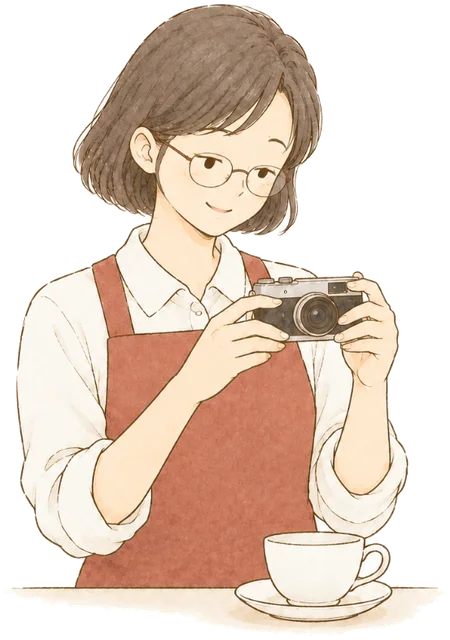
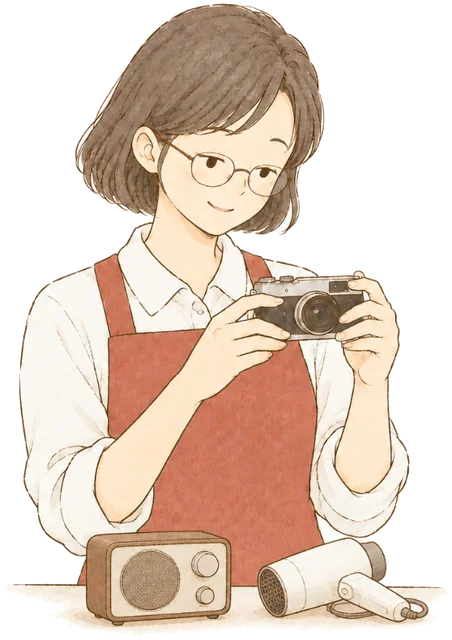
SNS の人物画：レジ担当のタブレットの向きと、リサイクルの手前の小物を直す
運営者の指摘で、Canva DAHb6PjhcPM の 36 ページに 4 枚を描き直した。
- レジ担当（笑顔・困った顔）：タブレットの POS の画面を店員側に向けた（お客様側からは背面とスタンドが見える）
- リサイクル（笑顔・困った顔）：手前のティーカップを、古いラジオとドライヤーにした

diff --git a/CLAUDE.md b/CLAUDE.md
@@ -125,7 +125,7 @@ npm run og      # OGP 画像（public/og-image.png）を作り直す
 - 画像は `public/images/mascots/rejimaru.webp`・`posuta.webp`（記事の中では小さく丸く表示される）。元の絵は Canva の MAHboScnROc（レジまる）・MAHboaheGVI（ポスタ）。2026-11-22 に描き直し：茶色の線と水彩、手は指のない手袋（ミトン）、ポスタはまっすぐ立つ。読者役 5 人のアンケートで紫・機械的な線・分かりにくい手を直した
 - 紹介記事は `mascot-introduction`（2026年10月25日 7:00 公開予定）
 - **X・Instagram の記事の告知文は、マスコットのセリフにしない**（2026-11-28 に変更。初めて見た人には、誰が話しているのか・何のアカウントなのかが分からなかったため。表示も「役立つ一言」の型より少なかった）。1行目で読む人の困りごと・得することが分かるふつうの文にし、記事の要点を1〜2個（Instagram は3〜4個）本文に書いて、投稿だけでも役に立つようにする。「〜について記事にまとめました」のような紹介の言い方にしない。やさしい「です・ます」か短い文で、語尾の「〜まる」・タメ口は使わない
-  - **SNS の画像には、マスコットの代わりに記事の業種に合う人物画を1人出す**（2026-11-28 に運営者の指示で変更）。絵は「mise & ひとふでノート」の POP 用の人物画（Canva の AI で作成。使ってよいことは運営者が Canva で確認済み）を `public/images/sns-people/<業種>-<表情>.webp` に縮小してコピーしたもの。顔や形は加工しない（大きさを変えるだけ）。業種は `scripts/daily-sns.mjs` の `PERSON_RULES`（カテゴリ・タグ・slug・タイトルの言葉で決める）と `PERSON_BY_SLUG`（例外）で決め、業種の言葉がない記事はカテゴリで決め、POS・周辺機器（`devices`）はレジ担当（`register`）、レジ締め・Excel・補助金・売上（`management`）は店主の事務（`office`）。どれでもなければカフェの人。表情はふつう笑顔（smile）、トラブル対応・防犯の記事は考える顔（think）。**年配に見える人は使わない**（若い人の絵にする。school・dining・florist・life・relax・bakery は1人目が年配に見えたので、若い人の別の絵に替えた）。slug で決める例外（`PERSON_BY_SLUG`）：`gym-pos`→ジムのトレーナー（`gym`）・`pet-shop-pos`→ペットショップの店員（`pet`）・`farm-stand-pos`→直売所の人（`farm`）・`golf-range-pos`→ゴルフ練習場の受付（`golf`）・`recycle-shop-pos` と `simple-shop-repair-buyback`→リサイクル・買取の店員（`recycle`）・`dental-clinic-pos`→歯科医（`dental`、POS 用の `p-dental1`）。2026-11-28 に register（笑顔と困った顔の 2 枚）・office・gym・pet・farm・golf・recycle を Canva で新しく描いた。**使う絵は Canva のデザイン DAHb6PjhcPM の 35 ページの「少し個性的な顔」の笑顔（smile）と困った顔（think）の 14 枚**（2026-11-28 に運営者が選択。7 業種とも think は困った顔の絵なので、トラブル系の記事では表情が変わる。番号と顔の特徴は C:\dev\_pop-people\expressions-2026-11-28.md）。33 ページの「v2（個性的な顔つき・表情）」は使わない。1 回目の絵は 32 ページ。切り抜きは外側の白だけを透明にする（囲まれた白まで消すと、白いシャツやゴルフボールに穴があく）。記録は C:\dev\_pop-people\queue-items.md。出す場所：X の画像の左下・Instagram の表紙の右下・最後の画像・リールの最後のコマ
+  - **SNS の画像には、マスコットの代わりに記事の業種に合う人物画を1人出す**（2026-11-28 に運営者の指示で変更）。絵は「mise & ひとふでノート」の POP 用の人物画（Canva の AI で作成。使ってよいことは運営者が Canva で確認済み）を `public/images/sns-people/<業種>-<表情>.webp` に縮小してコピーしたもの。顔や形は加工しない（大きさを変えるだけ）。業種は `scripts/daily-sns.mjs` の `PERSON_RULES`（カテゴリ・タグ・slug・タイトルの言葉で決める）と `PERSON_BY_SLUG`（例外）で決め、業種の言葉がない記事はカテゴリで決め、POS・周辺機器（`devices`）はレジ担当（`register`）、レジ締め・Excel・補助金・売上（`management`）は店主の事務（`office`）。どれでもなければカフェの人。表情はふつう笑顔（smile）、トラブル対応・防犯の記事は考える顔（think）。**年配に見える人は使わない**（若い人の絵にする。school・dining・florist・life・relax・bakery は1人目が年配に見えたので、若い人の別の絵に替えた）。slug で決める例外（`PERSON_BY_SLUG`）：`gym-pos`→ジムのトレーナー（`gym`）・`pet-shop-pos`→ペットショップの店員（`pet`）・`farm-stand-pos`→直売所の人（`farm`）・`golf-range-pos`→ゴルフ練習場の受付（`golf`）・`recycle-shop-pos` と `simple-shop-repair-buyback`→リサイクル・買取の店員（`recycle`）・`dental-clinic-pos`→歯科医（`dental`、POS 用の `p-dental1`）。2026-11-28 に register（笑顔と困った顔の 2 枚）・office・gym・pet・farm・golf・recycle を Canva で新しく描いた。**使う絵は Canva のデザイン DAHb6PjhcPM の 35 ページの「少し個性的な顔」の笑顔（smile）と困った顔（think）の 14 枚**（2026-11-28 に運営者が選択。7 業種とも think は困った顔の絵なので、トラブル系の記事では表情が変わる。番号と顔の特徴は C:\dev\_pop-people\expressions-2026-11-28.md）。ただしレジ担当（register）とリサイクル（recycle）の 4 枚は、36 ページの直した絵を使う（運営者の指摘で、タブレットの POS の画面を店員側に向け（スタンドはふだん店員向き）、リサイクルの手前のティーカップを古いラジオとドライヤーにした）。33 ページの「v2（個性的な顔つき・表情）」は使わない。1 回目の絵は 32 ページ。切り抜きは外側の白だけを透明にする（囲まれた白まで消すと、白いシャツやゴルフボールに穴があく）。記録は C:\dev\_pop-people\queue-items.md。出す場所：X の画像の左下・Instagram の表紙の右下・最後の画像・リールの最後のコマ
   - 「画像だけで役に立つ」カルーセル（デスクトップの `SNS投稿\_tools\`）も同じ人物画を使う。2026-11-28 に 11/28〜12/16 の投稿を新しい文と人物画で作り直した（元のファイルは作業した Claude の一時フォルダーに控えあり）
   - ブログの記事の中のマスコット（小さな丸い絵）と `mascot-introduction` の記事は、今のところ変えていない
 - **X・Instagram の投稿文には、絵文字や顔文字を入れてよい**（2026-11-06 に運営者が許可）。話の内容に合うものを、1行目の最後に1個まで。**おじさん構文に気をつける**：絵文字や記号を重ねない、語尾をカタカナにしない、馴れ馴れしくしない。😅😘❣、ハート、！の連続は使わない。法律・資格・料金の注意が中心の記事には付けない。画像の中の文字には入れない（文字化けするおそれがあるため）
